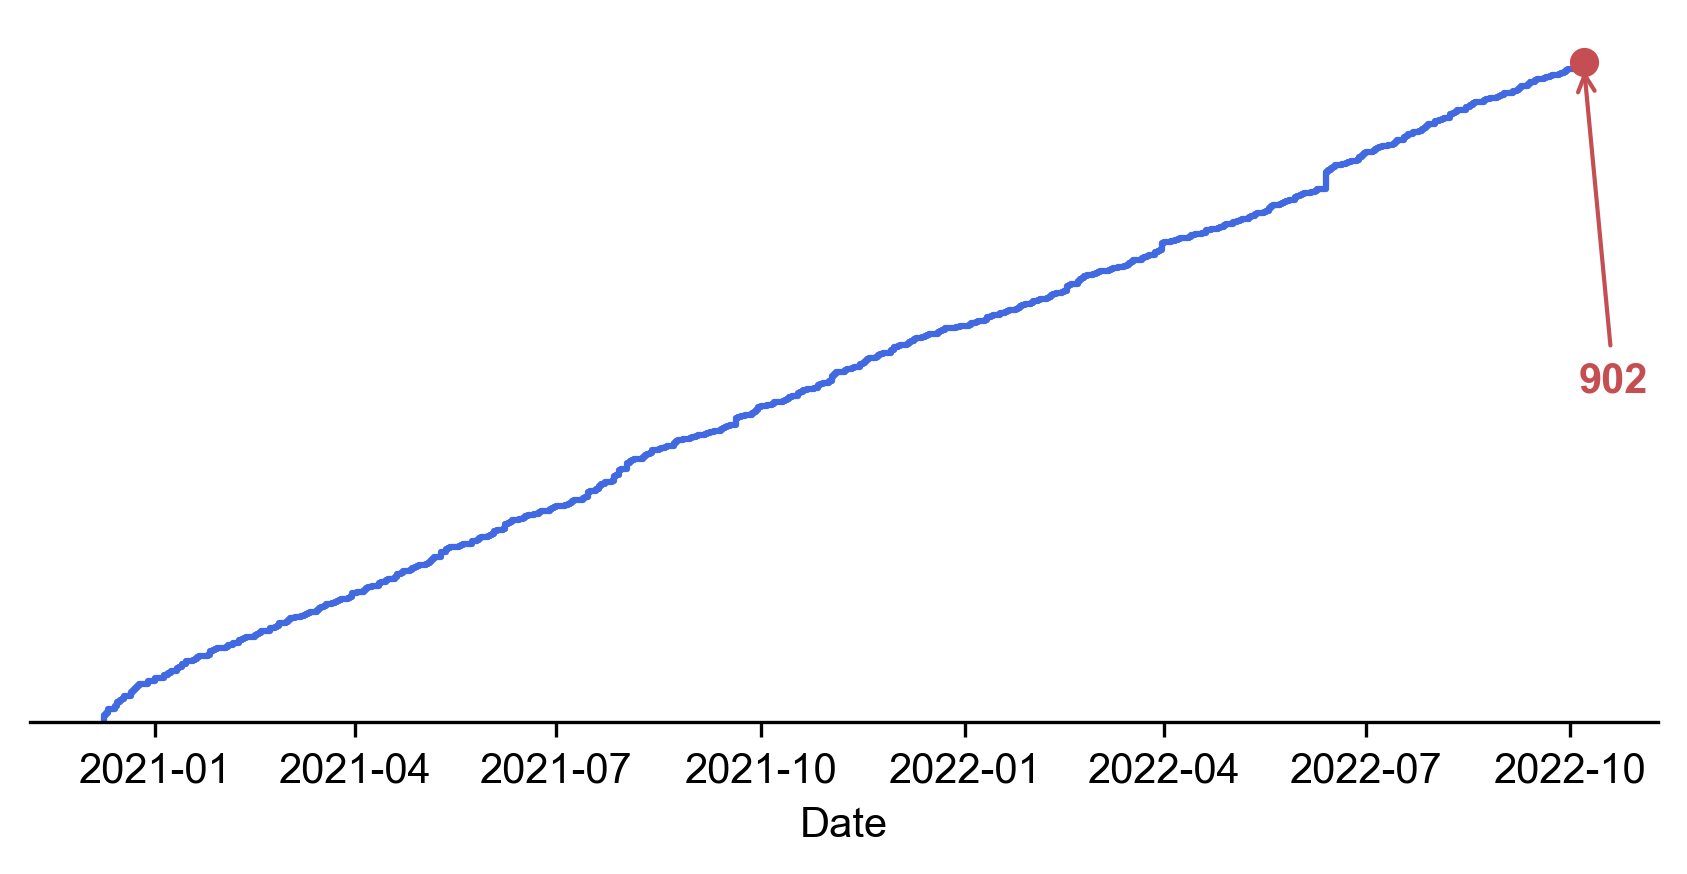
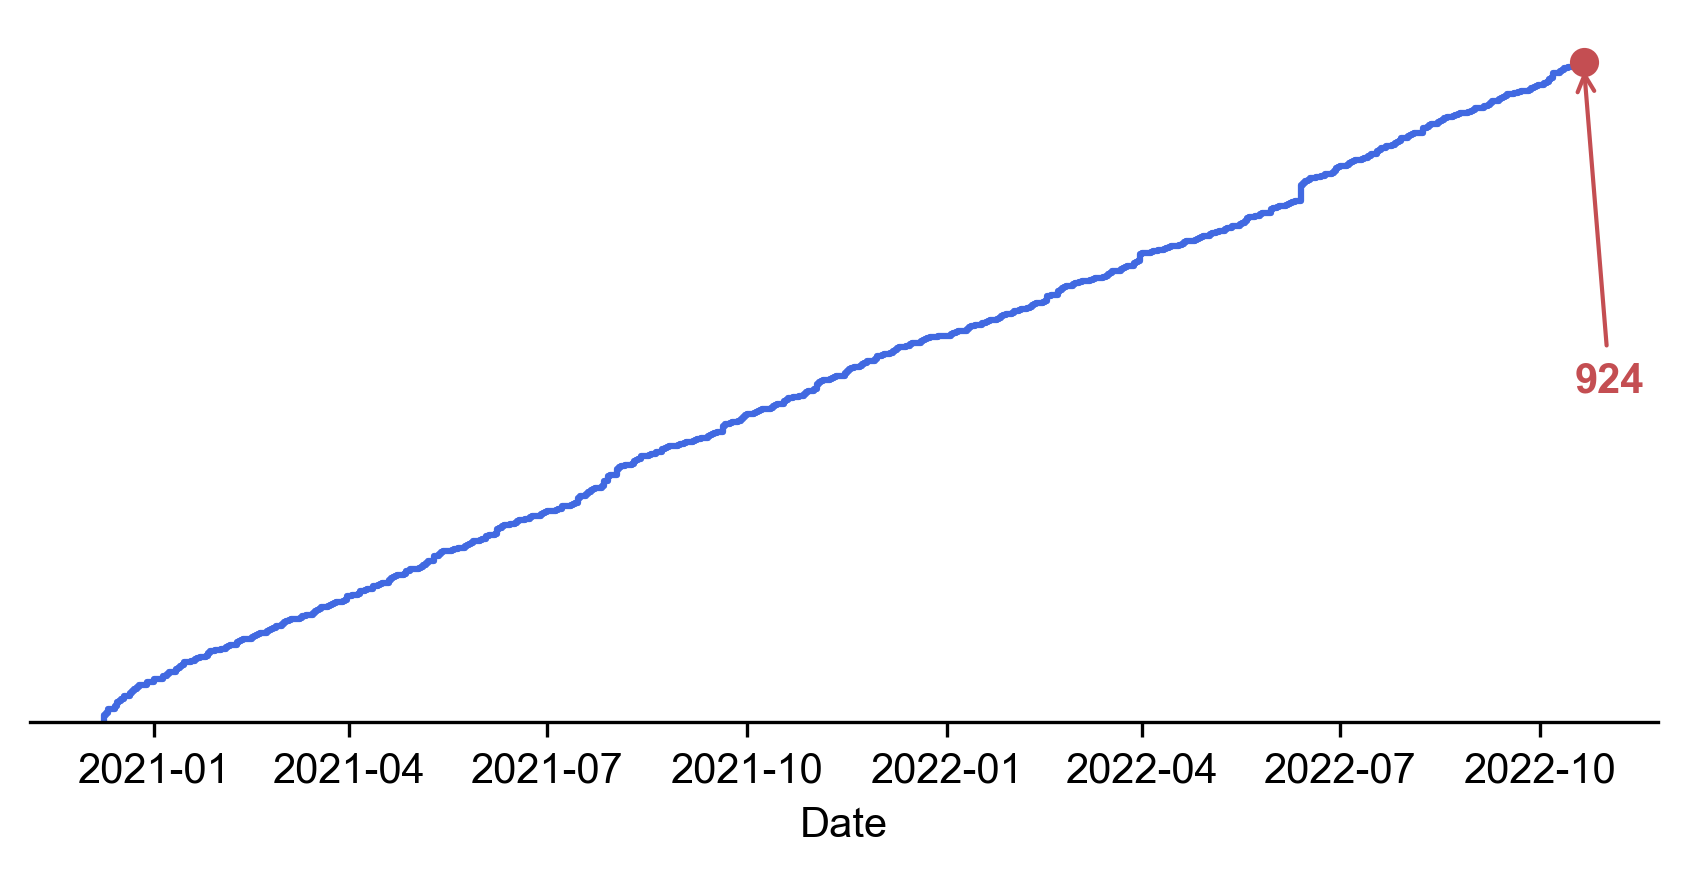
2022-10-21

diff --git a/2022/10/AstroPH-2022-10.md b/2022/10/AstroPH-2022-10.md
@@ -100,3 +100,184 @@
 
 ## 2022-10-10
 
+1. [FAST observations of an extremely active episode of FRB 20201124A: I. Burst morphology](https://arxiv.org/abs/2210.03607)
+
+   > Fast Radio Burst
+
+   FRB20201124A在2021年9月份的FAST观测，形态。
+
+2. [FAST observations of an extremely active episode of FRB 20201124A: II. Energy Distribution](https://arxiv.org/abs/2210.03645)
+
+   > Fast Radio Burst
+
+   FRB20201124A在2021年9月份的FAST观测，能量。
+
+3. [FAST observations of an extremely active episode of FRB 20201124A: III. Polarimetry](https://arxiv.org/abs/2210.03609)
+
+   > Fast Radio Burst
+
+   FRB20201124A在2021年9月份的FAST观测，偏振。
+
+4. [FAST observations of an extremely active episode of FRB 20201124A: IV. Spin Period Search](https://arxiv.org/abs/2210.03610)
+
+   > Fast Radio Burst
+
+   FRB20201124A在2021年9月份的FAST观测，周期。
+
+5. [Probing the distant universe with a very luminous fast radio burst at redshift 1](https://arxiv.org/abs/2210.04680)
+
+   > Fast Radio Burst, ASKAP, Localization
+
+   ASKAP探测到的`FRB20220610A`，$DM=1457.6\,\rm pc /cm^3$，定位在$z=1.016\pm0.002$的宿主星系中（目前最大红移）。其红移和色散之间的关系表明，在宇宙目是前一半年龄时，大部分重子物质就已经电离并进入星系间。这个爆发的能量是目前最亮的4倍，证实高红移时存在一个高能量的爆发群。
+
+6. [A Milliarcsecond Accurate Position for Sagittarius A*](https://arxiv.org/abs/2210.03390)
+
+   > VLBA, Localization, Black Hole
+
+   用VLBA在$22GHz$和$43GHz$对`Sgr A*`做了三次观测，参考亚毫角秒的河外射电源，确定`Sgr A*`的位置在$\alpha=17{\,\rm h}45{\,\rm m}40.032863{\,\rm s}\pm0.000016{\,\rm s},\ \delta=-29{\,\rm d}00{\,\rm m}28.24260{\,\rm s}\pm0.00047{\,\rm s}$，自行是$-3.152\pm0.011,\ -5.586\pm0.006\,{\rm mas/yr}$。
+
+7. [Optical Polarimetry of the May 2022 Lunar Eclipse](https://arxiv.org/abs/2210.03434)
+
+   > Lunar, Eclipse, Polarimetry
+
+   月全食期间，月球上反射的太阳光经过地球大气的散射，可能使光偏振。类似的效应也应该可以从凌日系外行星大气中观测到。
+
+   这里观测2022年5月16日的月全食光学偏振，B的偏振度为$2.1\pm0.4\%$，V是$1.2\pm0.3\%$，R是$0.5\pm0.2\%$，I是$0.2\pm0.2\%$，并且偏振度与月面反射位置无关，因此偏振的起源是由于地球大气层的散射，而不是由月球岩石造成。
+
+## 2022-10-11
+
+1. [Polarisation of magnetospheric curvature radiation in repeating fast radio bursts](https://arxiv.org/abs/2210.04401)
+
+   > Fast Radio Burst, Polarization, Theory
+
+   中子星磁层`bulk of charged bunches`的相干曲率辐射产生FRB。当视线在发射的几何光束内，出现的是高线偏振，当视线在发射的几何光束外时，出现的是高圆偏振。三个重复暴，FRB20201124A、FBR20190520B和FRB20121102A，大多以线偏振为主，圆偏振符号变换事件很少，说明FRB有可能是由大张角的薄`bulk`发射的。
+
+2. [PySME -- Spectroscopy Made Easier](https://arxiv.org/abs/2210.04755)
+
+   > Spectrum, Software, Exoplanet
+
+   [PySME](https://github.com/AWehrhahn/SME)，做系外行星大气光谱拟合的软件，由IDL SME改到Python。
+
+3. [The Nearest Neutron Star Candidate in a Binary Revealed by Optical Time-domain Surveys](https://arxiv.org/abs/2210.04685)
+
+   > Stellar, Time Domain, Optical, Radio
+
+   距离地球100pc以内的超新星爆炸产生的金属会在地球上沉积，因此太阳系附近的中子星仍然有待发现。这里再LAMOST时域光谱中找到一个双星系统，距离地球$127.7\pm0.3\,\rm pc$，根据多波段光谱和光变曲线，其中可见的恒星的质量是$0.7\pm 0.05M_\odot$，不可见的致密天体的质量是$\ge1.26\pm0.03M_\odot$，由于不存在过量的紫外辐射，因此不可见的天体不是超大质量白矮星，而有可能是中子星。FAST观测一小时没找到射电脉冲。说这种方法可以通过探索光学时域信息来找太阳系附近不活跃的中子星，从而促进对太阳系附近的超新星爆炸和金属富集历史的理解。
+
+   与2022-09-27第一篇文章类似。
+
+## 2022-10-12
+
+1. [B-fields do not suppress star formation in low metallicity dwarf galaxies](https://arxiv.org/abs/2210.04922)
+
+   > Galaxy, Star Formation, Magnetic Field
+
+   分子云中的研究有结论是磁场会抑制恒星形成。然而，这些研究大多是基于已经饱和并且充分发展的磁场，很少有研究原始磁场的成长阶段如何影响低金属性环境中恒星形成。
+
+   这里使用`AREPO`模拟矮星系，模拟纯流体、$10^{-6}\mu G$、$10^{-2}\mu G$的磁场条件，金属丰度在$0.01-0.1$之间变化，发现磁场对恒星形成率的影响很小。
+
+## 2022-10-13
+
+1. [Nested Dust Shells around the Wolf-Rayet Binary WR 140 observed with JWST](https://arxiv.org/abs/2210.06452)
+
+   > Stellar, Binary, Dust, ISM, JWST
+
+   大质量`colliding-wind binaries`是ISM中尘埃和化学富集的一个重要来源，不过这种系统中形成的尘埃和化学成分还没有很好的了解。`WR 140`是一个理想的实验室，有明确的轨道周期，每隔7.93年就会有一次可预测的尘埃形成事件。这里用JWST的MIRI、MRS和成像仪观测了过去130年形成的超过17个尘埃层，证实了`carbonaceous dust`的存在，表明`dust-forming WC binaries`可以丰富ISM中的有机化合物和碳质尘埃。
+
+   <img src="Figures/image-20221014002935549.png" alt="image-20221014002935549" style="zoom:50%;" />
+
+2. [RAD@home citizen science discovery of an AGN spewing a large unipolar radio bubble onto its merging companion galaxy](https://arxiv.org/abs/2210.06100)
+
+   > Galaxy, Black Hole, AGN
+
+   星系合并期间的AGN反馈用于解释黑洞-星系共同演化，然而AGN驱动的喷流/辐射如何与并和星系的气体耦合，从而导致瞬间增强以及随后下降的恒星形成，尚且知之甚少。
+
+   这里报告一个特殊案例，`RAD12`由`RAD@HOME`发现，首次出现了射电喷流驱动的气泡$\sim137pc$，撞击到一个贫含气体的早型星系，但是既没有正反馈也没有检测到反喷流一侧的任何射电瓣。
+
+## 2022-10-14
+
+1. [Solar System-scale interferometry on fast radio bursts could measure cosmic distances with sub-percent precision](https://arxiv.org/abs/2210.07159)
+
+   > Fast Radio Burst, Interferometry
+
+   由于波前的曲率，来自距离d的光源的光到达相隔$x_\perp$的探测器的时间差是
+   $$
+   \Delta t=120\ {\rm ns}\left(\frac{x_\perp}{100{\rm AU}}\right)^2\left(\frac{d}{100{\rm Mpc}}\right)^{-1}
+   $$
+   在GHz波段，干涉测量确定的到达时间差异可以好于1ns。这里表明，四个距离太阳10AU的探测器测量光源距离的误差可以小于1/100。导致探测器位置不确定的加速度（如太阳辐射照度变化、尘埃碰撞、气体阻力等）可以每周通过GPS的三分仪来校正。这样的干涉仪还将解决银河系脉冲星的射电发射区，约束太阳系外的质量分布，并对$0.01-100\mu Hz$的引力波敏感。
+
+## 2022-10-17
+
+1. [Probable low-frequency quasi-periodic oscillations in blazars from the ZTF survey](https://arxiv.org/abs/2210.07266)
+
+   > Stellar, Light Curve, Time Domain, QPO
+
+   研究ZTF巡天中2103颗`blazars`的光变曲线，从中找到5个QPO信号，从144天到196天不等，用`Lomb-Scargle`和`Weighted Wavelet Z-transform`。光学波段存在的这种准周期信号，可能来自与具有高洛伦兹稀疏的、与观测者视线紧密相连的渐进式喷流，或者来自于等离子体团块沿着喷流中螺旋结构运动。
+
+   <img src="Figures/image-20221017180259548.png" alt="image-20221017180259548" style="zoom:50%;" />
+
+## 2022-10-18
+
+1. [Saturation of the filamentation instability and dispersion measure of Fast Radio Bursts](https://arxiv.org/abs/2210.08754)
+
+   > Fast Radio Burst, Theory
+
+   非线性效应在FRB在源附近的传播中至关重要。这里研究的是FRB在相对论性磁星风中的`filamentation`，粒子数密度和辐射强度沿着风的方向发展出强烈的梯度。这种情境中
+
+   - 色散关系与均匀等离子体中色散关系类似，但等离子体频率由薄片的间距决定，而不是由平均粒子密度决定
+   - 这导致相对论性磁星风对DM的贡献要比之前认为的大几个量级
+   - 重复暴的不同爆发测量到的DM会有很大变化
+   - 康普顿散射被抑制，因为大部分辐射在接近真空的区域中传播
+
+2. [The second set of pulsar discoveries by CHIME/FRB/Pulsar: 14 Rotating Radio Transients and 7 pulsars](https://arxiv.org/abs/2210.09172)
+
+   > CHIME, Pulsar, Pipline
+
+   CHIME找Pulsar/RRAT的流程，由于CHIME定位不准，以及DM变化，流程中用到DBSCAN在位置和DM空间中做聚类，以减少候选。流程使用presto和fetch。目前找到21个新的河内源，包括14个RRATs，6个常规慢脉冲星和1个双星系统。
+
+## 2022-10-19
+
+1. [Evidence for an abundant old population of Galactic Ultra long period magnetars and implications for fast radio bursts](https://arxiv.org/abs/2210.09323)
+
+   > Long Period Magnetar, Fast Radio Burst
+
+   最近的两个发现，周期76s的`PSR J0901-4046`和周期1091s的`GLEAM-X J162759.5-523504.3`证实了长周期射电周期源群体的存在。这些天体的探测意味着银河系内有大量类似这两种源的天体，预估数量分别是$N\ge12800^{+19000}_{-10100}$和$N\ge510^{+500}_{-420}$。
+
+   这种磁星的存在意味着类似磁星场广泛存在了几百万年，并且与已经确认的银河系磁星行为不同。超小型磁星也可能构成FRB源。而目前对这种长周期的天体的探测是有偏的，文章估计`SKA-MID`和`DSA-2000`应该能探测到更多此类天体。
+
+2. [An Intermediate-field Fast Radio Burst Model and the Quasi-periodic Oscillation](https://arxiv.org/abs/2210.09930)
+
+   > Fast Radio Burst, QPO, Theory
+
+   一些FRB中发现了准周期震荡。一个理论，磁星光柱附近的磁重联产生FRB。这里证明FRB的频率、单脉冲宽度和亮度是如何由磁星的周期、磁场、QPO频率和地震能量决定的。
+
+   <img src="Figures/image-20221020003300502.png" alt="image-20221020003300502" style="zoom:50%;" />
+
+3. [The Spectroscopic Classification of Astronomical Transients (SCAT) Survey: Overview, Pipeline Description, Initial Results, and Future Plans](https://arxiv.org/abs/2210.09322)
+
+   > Transient, Survey, Spectrum, Optical
+
+   `Spectroscopic Classification of Astronomical Transients, SCAT`是使用夏威夷2.2m望远镜上的超新星积分场光谱仪做的暂现源光谱分类巡天。文章描述了数据处理流程。经过3年的观测获得了650个暂现源的光谱，包括所有类型的超新星、活动星系核、灾变变星以及一些罕见的暂现源（比如超光速超新星和潮汐瓦解事件）。
+
+## 2022-10-20
+
+1. [Reconnection-Driven Energy Cascade in Magnetohydrodynamic Turbulence](https://arxiv.org/abs/2210.10736)
+
+   > Solar, Turbulence, MHD, Simulation
+
+   这里做了目前世界上最大的`3D MHD`模拟，模拟极大磁雷诺数下，磁重联如何改变湍流能量级联的经典范式。通过将拉长的电流片分解成小的`plasmoids`，磁重联导致了新范围的湍流能量级联，其中能量转移的速度由`plasmoids`的增长速度控制。因此湍流能谱变陡，谱指数变为-2.2。
+
+   <img src="Figures/image-20221020133134136.png" alt="image-20221020133134136" style="zoom:50%;" />
+
+## 2022-10-21
+
+1. [Optical turbulence forecast over short timescales using machine learning techniques](https://arxiv.org/abs/2210.11236)
+
+   > Turbulence, Seeing, Machine Learning
+
+   自适应光学需要对光学湍流和大气参数的正确预测，一般的预测通常使用数值大气模型或者`autoregression`方法。机器学习也用来预测，但准确性不如前两种方法。比如这里用到的方法，随机森林做回归，以两小时的长度作为特征长度去回归一系列参数，来预测AO需要的参数（都在表格里）。
+
+   <img src="Figures/image-20221021145743790.png" alt="image-20221021145743790" style="zoom:50%;" />
+
+## 2022-10-24
+
